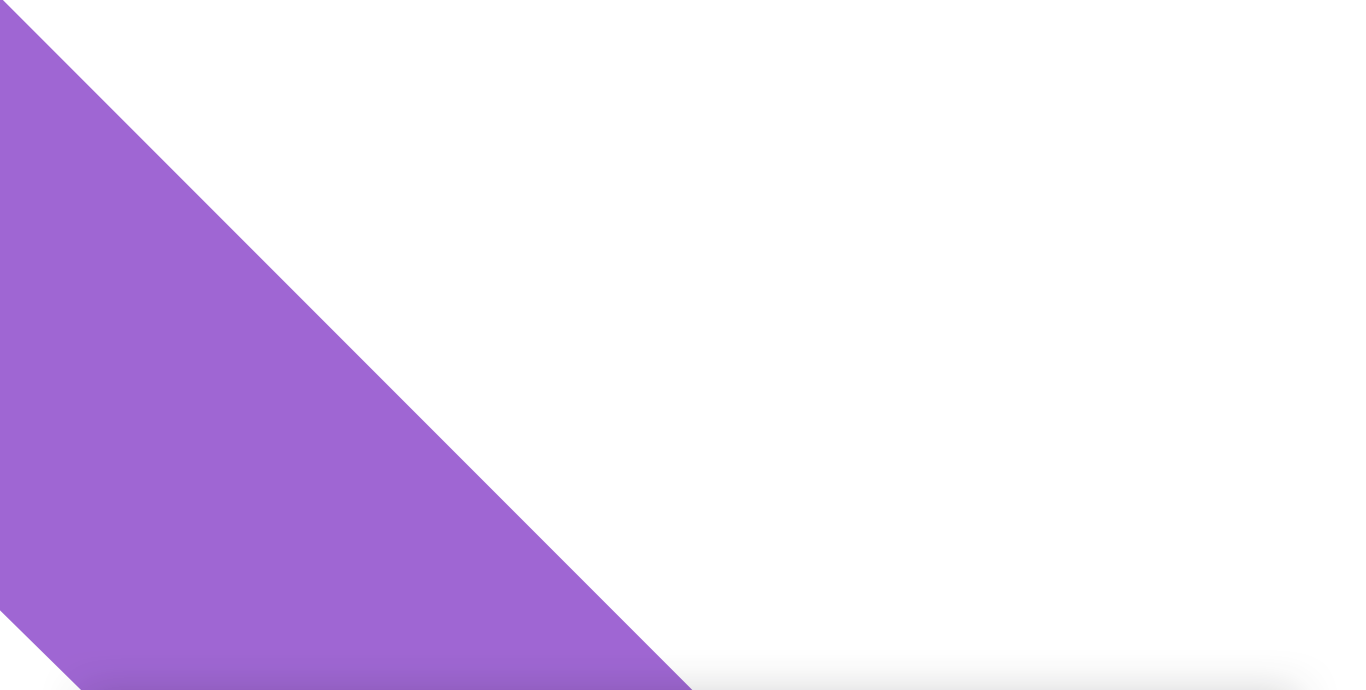
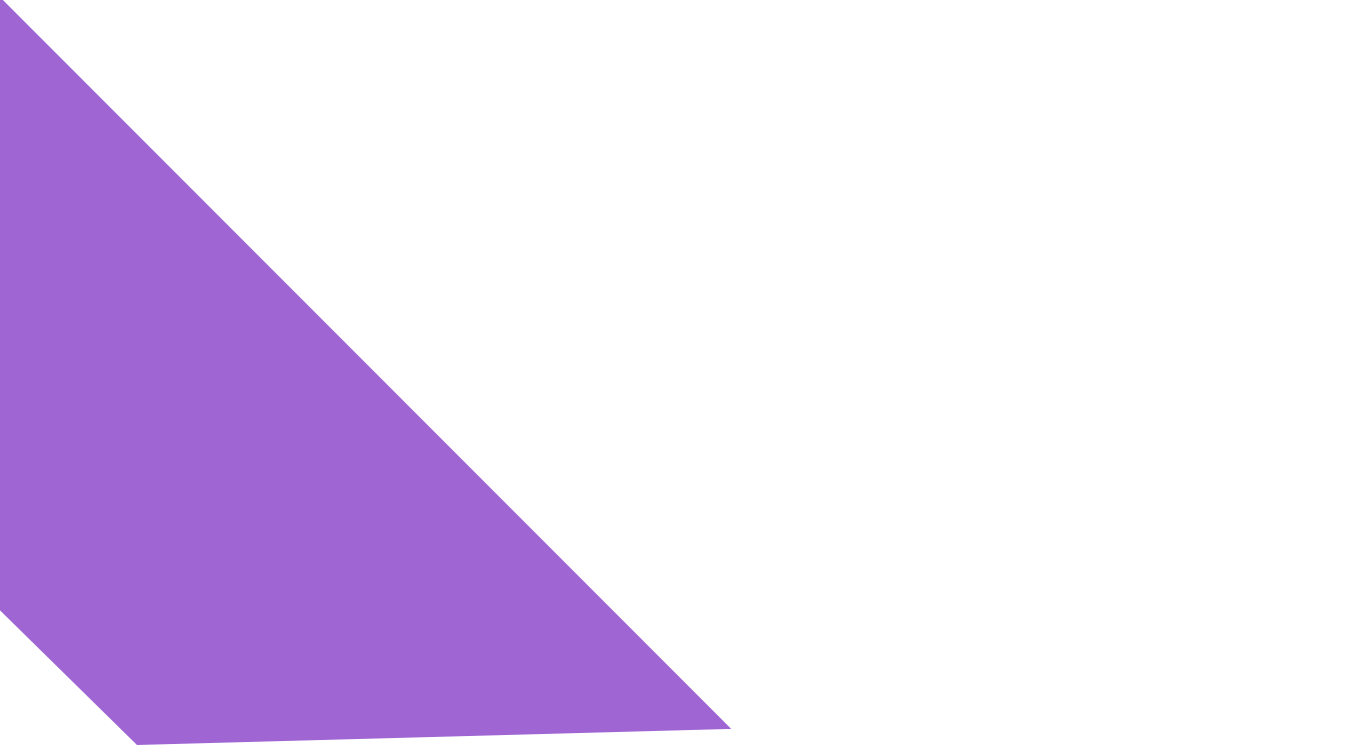
Commit

diff --git a/index.html b/index.html
@@ -1,1 +1,1 @@
-<!DOCTYPE html><html><head><title>Експерементаніум</title><link href="https://fonts.googleapis.com/css?family=Roboto:400,400i,500,500i,700,700i,900,900i&amp;subset=cyrillic,cyrillic-ext" rel="stylesheet"><link href="https://fonts.googleapis.com/css?family=Roboto+Condensed:400,700&amp;subset=cyrillic,cyrillic-ext" rel="stylesheet"><link href="https://fonts.googleapis.com/css?family=Open+Sans:300,400,700&amp;subset=cyrillic,cyrillic-ext" rel="stylesheet"><link rel="stylesheet" href="bower_components/normalize.css/normalize.css"><link rel="stylesheet" href="bower_components/reset-css/reset.css"><link rel="stylesheet" href="styles/css/style.css"></head><body><div class="body-wrapper"><header class="header"><div class="header-top-line"><div class="header-lang"><span class="header-lang__current">УКР</span><img class="header-lang__arr" src="img/lang-arrow.png" alt="arrow"></div><div class="header-search"><img class="header-search__icon" src="img/search.png"></div></div><div class="header-bottom-line"><div class="header__logo"><img src="img/logo.png" alt="logo"></div><nav class="header-menu"><a class="header-menu-item" href="#">ГОЛОВНА</a><div class="header-menu-item header-menu-item_with-submenu">ЕКСПОЗИЦІЯ ТА ШОУ<div class="header-menu-item_with-submenu-menu"><a class="header-menu-item_with-submenu-menu__item" href="#">ШОУ В МУЗЕЇ</a><a class="header-menu-item_with-submenu-menu__item" href="#">ПОДІЇ ТА ЛЕКЦІЇ</a><a class="header-menu-item_with-submenu-menu__item" href="#">ВИЇЗДНІ ШОУ</a><a class="header-menu-item_with-submenu-menu__item" href="#">3D ШОУ</a></div></div><a class="header-menu-item" href="#">НОВИНИ</a><a class="header-menu-item" href="#">ОСВІТНІ ПРОГРАМИ</a><a class="header-menu-item" href="#">ОРГАНІЗАЦІЯ СВЯТ</a><a class="header-menu-item" href="#">ПРО НАС</a></nav><a class="header__tickets" href="#">КВИТКИ</a></div></header><div class="promo"><div class="promo__arrow"></div><div class="promo-slider"><div class="promo-slider-arrows"><img class="promo-slider-arrows__left" src="img/arrow-l.png" alt="left"><img class="promo-slider-arrows__right" src="img/arrow-r.png" alt="right"></div><div class="promo-slider-slide promo-slider-slide_active"><time class="promo-slider-slide-time"><div class="promo-slider-slide-time__day">12</div><div class="promo-slider-slide-time__month">\09\2016</div></time><div class="promo-slider-slide__type">Лекція-експеримент</div><div class="promo-slider-slide__title">ДИФУЗІЯ. ВЗАЄМОДІЯ МОЛЕКУЛ  ТА АТОМІВ У ПРИРОДІ.</div></div></div></div><footer class="footer"><div class="footer-left"><img class="footer-left__logo" src="img/logo-footer.png" alt="logo"><div class="footer-left-subscribe"><div class="footer-left-subscribe__title">ПІДПИСАТИСЬ НА НОВИНИ</div><form><input class="footer-left-subscribe__input" type="email" placeholder="Введіть e-mail"><button class="footer-left-subscribe__submit" type="submit"><img src="img/send.png" alt="Submit"></button></form></div><div class="footer-left-social"><div class="footer-left-social__title">МИ В СОЦІАЛЬНИХ МЕРЕЖАХ</div><div class="footer-left-social-links"><div class="footer-left-social-links__link"><a href="#"><img src="img/soc-fb.png" alt="fb"></a></div><div class="footer-left-social-links__link"><a href="#"><img src="img/soc-tw.png" alt="tw"></a></div></div></div></div><div class="footer-right"><div class="footer-right-menus"><div class="footer-right-menus-menu"><div class="footer-right-menus-menu__title">ЕКСПОЗИЦІЯ ТА ШОУ</div><nav class="footer-right-menus-menu-links"><a class="footer-right-menus-menu-links__item" href="#">Шоу в музеї</a><a class="footer-right-menus-menu-links__item" href="#">Експозиція музею</a><a class="footer-right-menus-menu-links__item" href="#">Виїздні шоу</a><a class="footer-right-menus-menu-links__item" href="#">3Д тур</a></nav></div><div class="footer-right-menus-menu__margin"></div><div class="footer-right-menus-menu"><div class="footer-right-menus-menu__title">НОВИНИ</div><nav class="footer-right-menus-menu-links"><a class="footer-right-menus-menu-links__item" href="#">Новини музею</a><a class="footer-right-menus-menu-links__item" href="#">Новини зі світу науки</a><a class="footer-right-menus-menu-links__item" href="#">Анонси</a><a class="footer-right-menus-menu-links__item" href="#">Акції</a></nav></div><div class="footer-right-menus-menu__margin"></div><div class="footer-right-menus-menu"><div class="footer-right-menus-menu__title">ОСВІТНІ ПРОГРАМИ</div><nav class="footer-right-menus-menu-links"><a class="footer-right-menus-menu-links__item" href="#">Шкільні екскурсії</a><a class="footer-right-menus-menu-links__item" href="#">Наукові гуртки</a><a class="footer-right-menus-menu-links__item" href="#">Лекції</a><a class="footer-right-menus-menu-links__item" href="#">Майстер-класи</a></nav></div><div class="footer-right-menus-menu__margin"></div><div class="footer-right-menus-menu"><div class="footer-right-menus-menu__title">ОРГАНІЗАЦІЯ ЗАХОДІВ</div><nav class="footer-right-menus-menu-links"><a class="footer-right-menus-menu-links__item" href="#">День народження</a><a class="footer-right-menus-menu-links__item" href="#">Корпоративні заходи</a><a class="footer-right-menus-menu-links__item" href="#">Оренда приміщень</a><a class="footer-right-menus-menu-links__item" href="#">Кафе</a></nav></div><div class="footer-right-menus-menu__line"></div><div class="footer-right-menus-menu"><div class="footer-right-menus-menu__title">ПРО НАС</div><nav class="footer-right-menus-menu-links"><a class="footer-right-menus-menu-links__item" href="#">Про музей</a><a class="footer-right-menus-menu-links__item" href="#">Правила поведінки</a><a class="footer-right-menus-menu-links__item" href="#">Відгуки</a><a class="footer-right-menus-menu-links__item" href="#">Благодійність</a><a class="footer-right-menus-menu-links__item" href="#">FAQ</a></nav></div><div class="footer-right-menus-menu__margin"></div><div class="footer-right-menus-menu"><div class="footer-right-menus-menu__title">МУЗЕЙ</div><nav class="footer-right-menus-menu-links"><a class="footer-right-menus-menu-links__item" href="#">Квитки</a><a class="footer-right-menus-menu-links__item" href="#">Магазин</a><a class="footer-right-menus-menu-links__item" href="#">Вакансії</a><a class="footer-right-menus-menu-links__item" href="#">Фото та відео</a><a class="footer-right-menus-menu-links__item" href="#">Подяки</a></nav></div></div></div></footer></div><script src="js/es5/script.js"></script></body></html>
+<!DOCTYPE html><html><head><title>Експерементаніум</title><link href="https://fonts.googleapis.com/css?family=Roboto:400,400i,500,500i,700,700i,900,900i&amp;subset=cyrillic,cyrillic-ext" rel="stylesheet"><link href="https://fonts.googleapis.com/css?family=Roboto+Condensed:400,700&amp;subset=cyrillic,cyrillic-ext" rel="stylesheet"><link href="https://fonts.googleapis.com/css?family=Open+Sans:300,400,700&amp;subset=cyrillic,cyrillic-ext" rel="stylesheet"><link rel="stylesheet" href="bower_components/normalize.css/normalize.css"><link rel="stylesheet" href="bower_components/reset-css/reset.css"><link rel="stylesheet" href="styles/css/style.css"></head><body><div class="body-wrapper"><header class="header"><div class="header-top-line"><div class="header-lang"><span class="header-lang__current">УКР</span><img class="header-lang__arr" src="img/lang-arrow.png" alt="arrow"></div><div class="header-search"><img class="header-search__icon" src="img/search.png"></div></div><div class="header-bottom-line"><div class="header__logo"><img src="img/logo.png" alt="logo"></div><nav class="header-menu"><a class="header-menu-item" href="#">ГОЛОВНА</a><div class="header-menu-item header-menu-item_with-submenu">ЕКСПОЗИЦІЯ ТА ШОУ<div class="header-menu-item_with-submenu-menu"><a class="header-menu-item_with-submenu-menu__item" href="#">ШОУ В МУЗЕЇ</a><a class="header-menu-item_with-submenu-menu__item" href="#">ПОДІЇ ТА ЛЕКЦІЇ</a><a class="header-menu-item_with-submenu-menu__item" href="#">ВИЇЗДНІ ШОУ</a><a class="header-menu-item_with-submenu-menu__item" href="#">3D ШОУ</a></div></div><a class="header-menu-item" href="#">НОВИНИ</a><a class="header-menu-item" href="#">ОСВІТНІ ПРОГРАМИ</a><a class="header-menu-item" href="#">ОРГАНІЗАЦІЯ СВЯТ</a><a class="header-menu-item" href="#">ПРО НАС</a></nav><a class="header__tickets" href="#">КВИТКИ</a></div></header><div class="promo"><div class="promo__arrow"></div><div class="promo-slider"><div class="promo-slider-arrows"><img class="promo-slider-arrows__left" src="img/arrow-l.png" alt="left"><img class="promo-slider-arrows__right" src="img/arrow-r.png" alt="right"></div><div class="promo-slider-slide promo-slider-slide_active"><time class="promo-slider-slide-time"><div class="promo-slider-slide-time__day">12</div><div class="promo-slider-slide-time__month">\09\2016</div></time><div class="promo-slider-slide__type">Лекція-експеримент</div><div class="promo-slider-slide__title">ДИФУЗІЯ. ВЗАЄМОДІЯ МОЛЕКУЛ  ТА АТОМІВ У ПРИРОДІ.</div><div class="promo-slider-slide-buttons"><div class="promo-slider-slide-buttons__details">ДЕТАЛЬНІШЕ</div><div class="promo-slider-slide-buttons__tickets">ПРИДБАТИ КВИТКИ</div></div></div></div></div><footer class="footer"><div class="footer-left"><img class="footer-left__logo" src="img/logo-footer.png" alt="logo"><div class="footer-left-subscribe"><div class="footer-left-subscribe__title">ПІДПИСАТИСЬ НА НОВИНИ</div><form><input class="footer-left-subscribe__input" type="email" placeholder="Введіть e-mail"><button class="footer-left-subscribe__submit" type="submit"><img src="img/send.png" alt="Submit"></button></form></div><div class="footer-left-social"><div class="footer-left-social__title">МИ В СОЦІАЛЬНИХ МЕРЕЖАХ</div><div class="footer-left-social-links"><div class="footer-left-social-links__link"><a href="#"><img src="img/soc-fb.png" alt="fb"></a></div><div class="footer-left-social-links__link"><a href="#"><img src="img/soc-tw.png" alt="tw"></a></div></div></div></div><div class="footer-right"><div class="footer-right-menus"><div class="footer-right-menus-menu"><div class="footer-right-menus-menu__title">ЕКСПОЗИЦІЯ ТА ШОУ</div><nav class="footer-right-menus-menu-links"><a class="footer-right-menus-menu-links__item" href="#">Шоу в музеї</a><a class="footer-right-menus-menu-links__item" href="#">Експозиція музею</a><a class="footer-right-menus-menu-links__item" href="#">Виїздні шоу</a><a class="footer-right-menus-menu-links__item" href="#">3Д тур</a></nav></div><div class="footer-right-menus-menu__margin"></div><div class="footer-right-menus-menu"><div class="footer-right-menus-menu__title">НОВИНИ</div><nav class="footer-right-menus-menu-links"><a class="footer-right-menus-menu-links__item" href="#">Новини музею</a><a class="footer-right-menus-menu-links__item" href="#">Новини зі світу науки</a><a class="footer-right-menus-menu-links__item" href="#">Анонси</a><a class="footer-right-menus-menu-links__item" href="#">Акції</a></nav></div><div class="footer-right-menus-menu__margin"></div><div class="footer-right-menus-menu"><div class="footer-right-menus-menu__title">ОСВІТНІ ПРОГРАМИ</div><nav class="footer-right-menus-menu-links"><a class="footer-right-menus-menu-links__item" href="#">Шкільні екскурсії</a><a class="footer-right-menus-menu-links__item" href="#">Наукові гуртки</a><a class="footer-right-menus-menu-links__item" href="#">Лекції</a><a class="footer-right-menus-menu-links__item" href="#">Майстер-класи</a></nav></div><div class="footer-right-menus-menu__margin"></div><div class="footer-right-menus-menu"><div class="footer-right-menus-menu__title">ОРГАНІЗАЦІЯ ЗАХОДІВ</div><nav class="footer-right-menus-menu-links"><a class="footer-right-menus-menu-links__item" href="#">День народження</a><a class="footer-right-menus-menu-links__item" href="#">Корпоративні заходи</a><a class="footer-right-menus-menu-links__item" href="#">Оренда приміщень</a><a class="footer-right-menus-menu-links__item" href="#">Кафе</a></nav></div><div class="footer-right-menus-menu__line"></div><div class="footer-right-menus-menu"><div class="footer-right-menus-menu__title">ПРО НАС</div><nav class="footer-right-menus-menu-links"><a class="footer-right-menus-menu-links__item" href="#">Про музей</a><a class="footer-right-menus-menu-links__item" href="#">Правила поведінки</a><a class="footer-right-menus-menu-links__item" href="#">Відгуки</a><a class="footer-right-menus-menu-links__item" href="#">Благодійність</a><a class="footer-right-menus-menu-links__item" href="#">FAQ</a></nav></div><div class="footer-right-menus-menu__margin"></div><div class="footer-right-menus-menu"><div class="footer-right-menus-menu__title">МУЗЕЙ</div><nav class="footer-right-menus-menu-links"><a class="footer-right-menus-menu-links__item" href="#">Квитки</a><a class="footer-right-menus-menu-links__item" href="#">Магазин</a><a class="footer-right-menus-menu-links__item" href="#">Вакансії</a><a class="footer-right-menus-menu-links__item" href="#">Фото та відео</a><a class="footer-right-menus-menu-links__item" href="#">Подяки</a></nav></div></div></div></footer></div><script src="js/es5/script.js"></script></body></html>

diff --git a/styles/css/style.css b/styles/css/style.css
@@ -82,7 +82,7 @@
     position: absolute;
     width: 100%;
     height: 100%;
-    background: url("../../img/arrow.png") top right; }
+    background: url("../../img/arrow.png") top left; }
   .promo-slider {
     padding-top: 190px; }
     .promo-slider-arrows {
@@ -98,7 +98,8 @@
       padding-top: 60px;
       clear: both;
       position: relative;
-      width: 555px; }
+      width: 555px;
+      padding-bottom: 80px; }
       .promo-slider-slide-time {
         color: #fff;
         font-weight: bold;
@@ -121,6 +122,25 @@
         line-height: 1.3;
         color: #fff;
         font-size: 35px; }
+      .promo-slider-slide-buttons {
+        margin-top: 35px;
+        font-family: 'Roboto Condensed', sans-serif;
+        font-weight: 600;
+        font-size: 20px; }
+        .promo-slider-slide-buttons__details {
+          display: inline-block;
+          vertical-align: middle;
+          border: 3px solid #fff;
+          color: #fff;
+          padding: 21px 50px;
+          margin-right: 35px; }
+        .promo-slider-slide-buttons__tickets {
+          display: inline-block;
+          vertical-align: middle;
+          background: #fff;
+          color: #8740c8;
+          padding: 21px 50px;
+          border: 3px solid #fff; }
 
 .footer {
   background-color: #9153cc;

diff --git a/styles/sass/components/promo.scss b/styles/sass/components/promo.scss
@@ -4,7 +4,7 @@
     position: absolute;
     width: 100%;
     height: 100%;
-    background: url('../../img/arrow.png') top right;
+    background: url('../../img/arrow.png') top left;
   }
   &-slider {
     @extend .default-padding;
@@ -29,6 +29,7 @@
       clear: both;
       position: relative;
       width: 555px;
+      padding-bottom: 80px;
       &-time {
         color: #fff;
         font-weight: bold;
@@ -57,6 +58,30 @@
         line-height: 1.3;
         color: #fff;
         font-size: 35px;
+      }
+
+      &-buttons {
+        margin-top: 35px;
+        font-family: 'Roboto Condensed', sans-serif;
+        font-weight: 600;
+        font-size: 20px;
+        &__details {
+          display: inline-block;
+          vertical-align: middle;
+          border: 3px solid #fff;
+          color: #fff;
+          padding: 21px 50px;
+          margin-right: 35px;
+        }
+
+        &__tickets {
+          display: inline-block;
+          vertical-align: middle;
+          background: #fff;
+          color: #8740c8;
+          padding: 21px 50px;
+          border: 3px solid #fff;
+        }
       }
     }
   }
